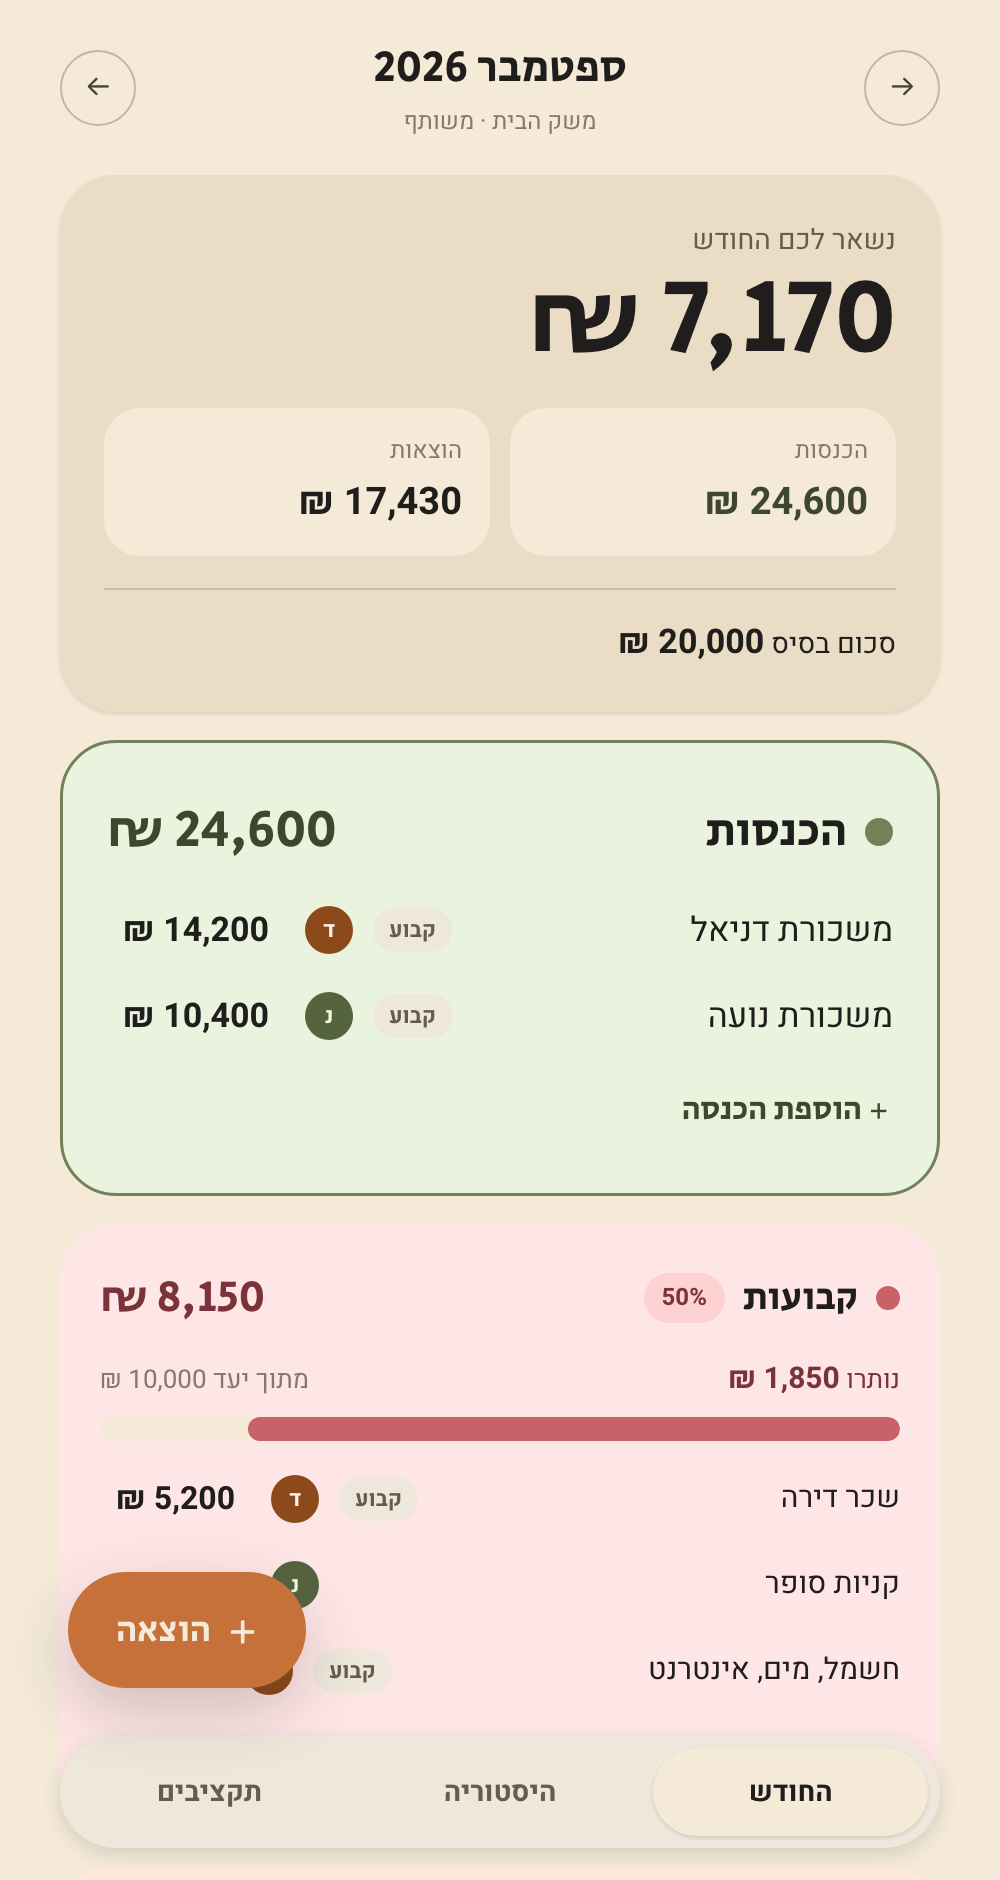
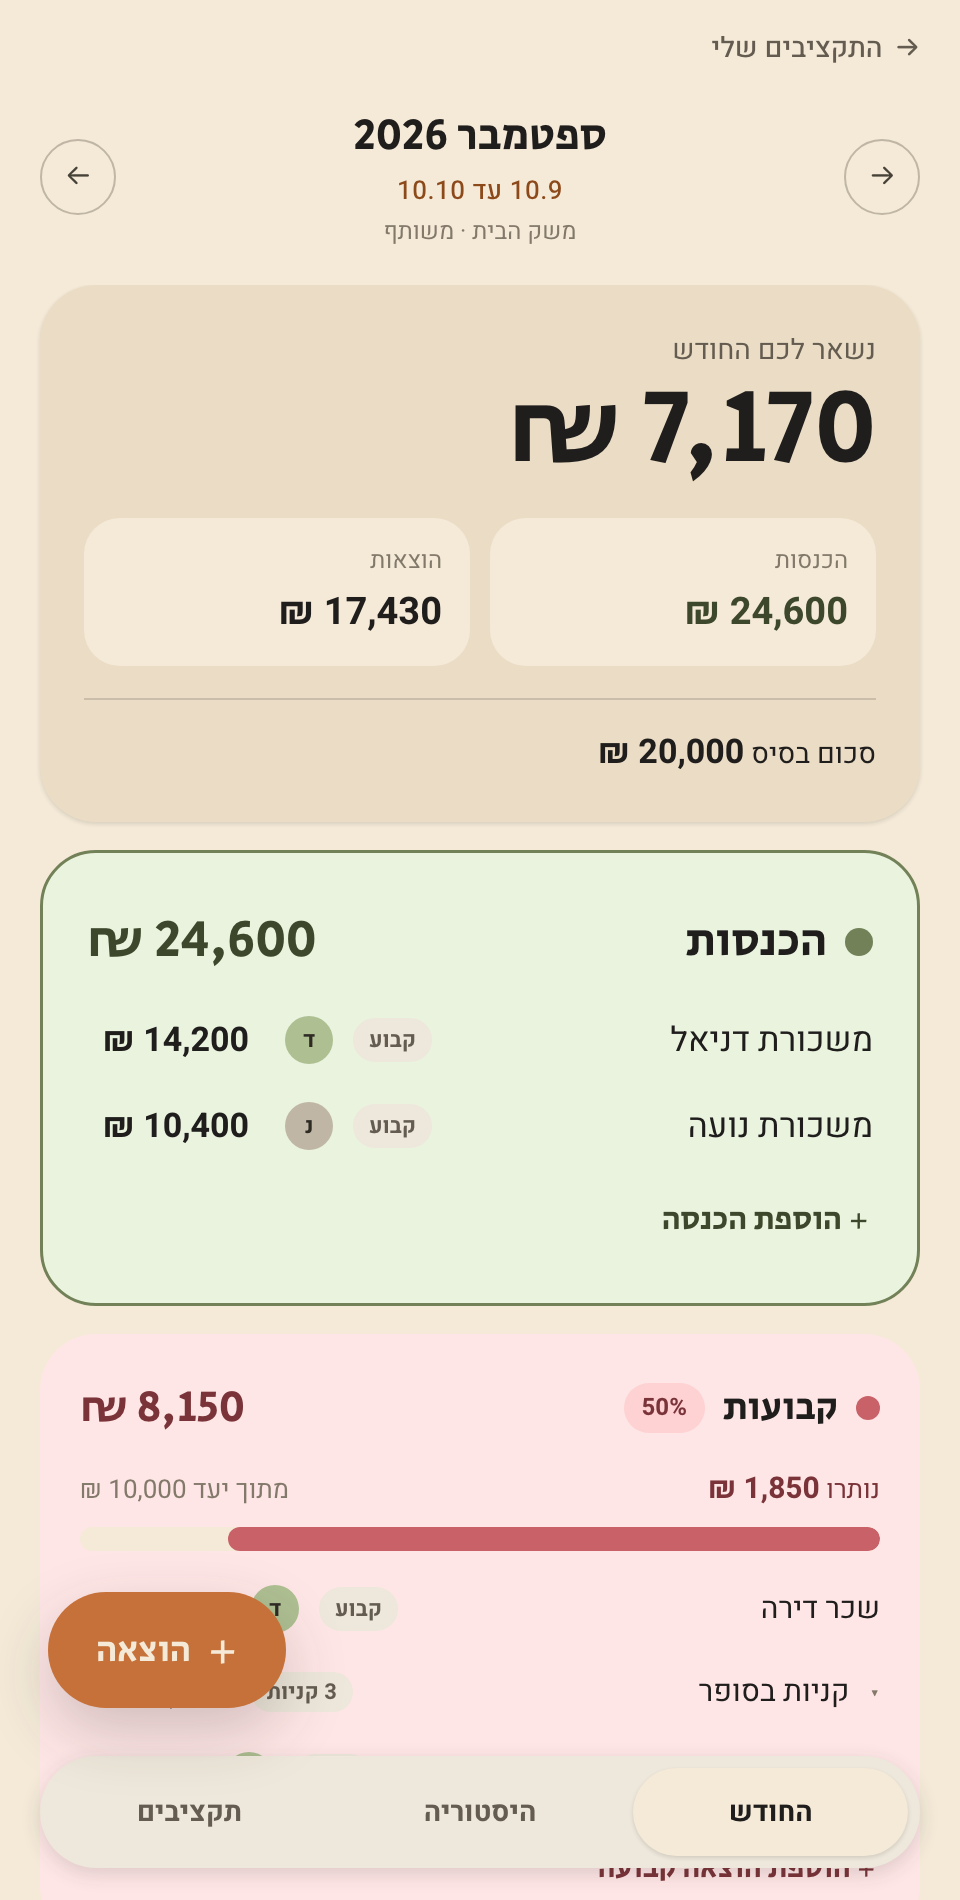
ניקוי, וצילומי מסך ו-README מעודכנים
צילומי המסך הראו אפליקציה אחרת: בלי הקיבוץ, בלי ההסבר, בלי הפרופיל,
ועם השמות הישנים של הקטגוריות. הם צולמו מחדש, ונוספו שני מסכים
שלא היו מתועדים כלל.

הצילום עצמו הפך לסקריפט, npm run shots, במקום פעולה ידנית. הוא
מצלם חלון רחב וחותך את העמודה שבמרכז: צילום ישיר ברוחב טלפון נחתך,
כי בממשק מימין לשמאל נקודת הגלילה ההתחלתית אינה בקצה שרואים.

ה-README עודכן לכל מה שנוסף: בסיס שהמשתמש קובע, היתרה והבלת״ם,
מועד חיוב ומחזור, קיבוץ שורות, עריכה במקום, פרופיל, ושלוש הגרסאות
של התראת סוף החודש. מודל הנתונים עודכן למבנה המקונן ולמזהים
הקריאים, ומספרי הבדיקות עודכנו.

ובנוסף הוסרו שני ייצואים שאיש לא השתמש בהם, ALL_CATEGORIES
ו-signedShekels, יחד עם המעצב שהיה קיים רק בשבילו.

diff --git a/src/dev/shots.jsx b/src/dev/shots.jsx
@@ -2,6 +2,8 @@ import { StrictMode } from 'react'
 import { createRoot } from 'react-dom/client'
 import Avatar from '../components/Avatar'
 import Welcome from '../components/Welcome'
+import ProfileSheet from '../components/ProfileSheet'
+import { AuthContext } from '../context/AuthContext'
 import BackToBudgets from '../components/BackToBudgets'
 import BottomNav from '../components/BottomNav'
 import CategoryCard from '../components/CategoryCard'
@@ -309,6 +311,14 @@ const SCREENS = {
   types: <Types />, trip: <Trip />, goal: <Goal />, sheet: <SheetShot />, login: <LoginShot />,
   // ההסבר מוצג מעל מסך החודש, כי זה ההקשר שבו הוא מופיע באמת
   intro: <><Month /><Welcome onClose={noop} /></>,
+  profile: (
+    <AuthContext.Provider
+      value={{ user: { uid: 'u1', displayName: 'דניאל סלע', email: 'daniel@mail.com' } }}
+    >
+      <main className="app"><div className="app-scroll" /></main>
+      <ProfileSheet profile={{ displayName: 'דניאל סלע', tone: 'a1' }} onClose={noop} />
+    </AuthContext.Provider>
+  ),
 }
 const which = new URLSearchParams(location.search).get('s') || 'month'
 createRoot(document.getElementById('root')).render(<StrictMode>{SCREENS[which]}</StrictMode>)

diff --git a/src/lib/format.js b/src/lib/format.js
@@ -4,15 +4,7 @@ const currency = new Intl.NumberFormat('he-IL', {
   maximumFractionDigits: 0,
 })
 
-const signedCurrency = new Intl.NumberFormat('he-IL', {
-  style: 'currency',
-  currency: 'ILS',
-  maximumFractionDigits: 0,
-  signDisplay: 'exceptZero',
-})
-
 export const shekels = (value) => currency.format(Math.round(value || 0))
-export const signedShekels = (value) => signedCurrency.format(Math.round(value || 0))
 
 const MONTH_NAMES = [
   'ינואר', 'פברואר', 'מרץ', 'אפריל', 'מאי', 'יוני',

diff --git a/src/lib/model.js b/src/lib/model.js
@@ -223,10 +223,6 @@ export const GOAL_CATEGORIES = {
 
 export const GOAL_ORDER = Object.keys(GOAL_CATEGORIES)
 
-/** כל קטגוריה חוקית באפליקציה, לצורך ולידציה. */
-export const ALL_CATEGORIES = [
-  ...Object.keys(CATEGORIES), ...TRIP_ORDER, ...GOAL_ORDER,
-]
 
 /** סיכום טיול: מסגרת אחת, בלי בסיס ובלי יעדים לקטגוריה. */
 export function summarizeTrip(entries, frame = 0) {

diff --git a/README.md b/README.md
@@ -11,7 +11,7 @@ An installable PWA. No developer account, no app store, no native build.
 ![React](https://img.shields.io/badge/React-19-2a78d6?style=flat-square&logo=react&logoColor=white)
 ![Vite](https://img.shields.io/badge/Vite-8-7a8a5e?style=flat-square&logo=vite&logoColor=white)
 ![Firebase](https://img.shields.io/badge/Firebase-Firestore%20%2B%20Auth-eb6834?style=flat-square&logo=firebase&logoColor=white)
-![Tests](https://img.shields.io/badge/tests-135%20passing-1baf7a?style=flat-square)
+![Tests](https://img.shields.io/badge/tests-177%20%2B%20101%20rules-1baf7a?style=flat-square)
 
 The interface is in Hebrew and right to left throughout.
 
@@ -42,6 +42,16 @@ The interface is in Hebrew and right to left throughout.
 <td align="center"><b>A trip</b><br/>One frame, its own categories, no months</td>
 <td align="center"><b>A saving goal</b><br/>A target to fill, deposits and withdrawals</td>
 </tr>
+<tr>
+<td><img src="docs/screens/intro.png" alt="First run" /></td>
+<td><img src="docs/screens/reserve.png" alt="The remainder" /></td>
+<td><img src="docs/screens/profile.png" alt="Profile" /></td>
+</tr>
+<tr>
+<td align="center"><b>First run</b><br/>One example carried through four steps</td>
+<td align="center"><b>The remainder</b><br/>What is left, what was unplanned, what to deposit</td>
+<td align="center"><b>Profile</b><br/>One name and one colour, everywhere</td>
+</tr>
 </table>
 
 ---
@@ -54,12 +64,17 @@ The interface is in Hebrew and right to left throughout.
 | **Invite by code** | Eight characters, single use, valid for a week. No editing security rules to add someone. |
 | **Several budgets** | A shared household one and a personal one, with different members in each. |
 | **Recurring charges** | Tick a box when adding, and the row is created automatically every month. |
-| **A real reserve** | The unplanned margin is a category you can spend from, not just a number to look at. |
-| **Trips** | A separate budget shape for a trip, which can charge the household reserve. |
-| **Saving goals** | A target to accumulate towards, whose deposits count against the household fund. |
+| **A base amount you choose** | Set what you plan to divide each month, so a good month does not quietly license more spending. |
+| **A real remainder** | What comes in above the base is a category you can spend from, with a prompt to deposit what is left. |
+| **Your own billing date** | The 2nd, 10th or 15th. The app opens on the cycle that is running and closes a month when it actually closes. |
+| **Grouped rows** | Many small shops under one collapsed line, so one grocery run a week does not bury the card. |
+| **Edit in place** | Name, category and amount, without deleting and re-entering. |
+| **Trips** | A separate budget shape for a trip, which can charge the household remainder. |
+| **Saving goals** | A target to accumulate towards, whose deposits show up in the household's deposits. |
 | **Works offline** | Opens and shows data without a connection. Writes sync when it returns. |
 | **Who entered what** | A coloured avatar on every row. |
-| **End of month nudge** | A notification if money is left over, linking straight to a fund deposit. |
+| **End of month nudge** | On your billing date: what is left to deposit, or where you overspent. |
+| **One profile** | A name and a colour that belong to the person, identical in every budget. |
 
 ---
 
@@ -86,7 +101,7 @@ direction that amount moves:
 | Categories | Four, fixed in code | Lodging, transport, attractions, dining, shopping, other | Deposit and withdrawal |
 | Targets | 50/30/20 of the base | The frame only | The target only |
 | Recurring | Yes | Not meaningful | Not meaningful |
-| Rolls up into | - | The unplanned reserve | The fund |
+| Rolls up into | - | The remainder | Deposits |
 
 Either can be linked to a household budget. The trip or goal keeps every line of
 detail; the household gets **one summary row per month**, locked for editing and
@@ -94,8 +109,8 @@ pointing back at its source, so the same money is never counted twice or edited 
 two places.
 
 Where that row lands follows the meaning: a trip is a one off expense that was
-planned for, which is what the unplanned reserve is for, and a goal is exactly
-what the 20% fund target exists to hold.
+planned for, which is what the remainder is for, and a goal is exactly what the
+20% deposits target exists to hold.
 
 The row id is derived from the source budget and the month, so two devices syncing
 at once write to the same document instead of duplicating it. A month that empties
@@ -124,10 +139,23 @@ The base is the nearest multiple of 5,000 strictly **below** the income:
 The third row is the one that is easy to get wrong: an income that is an exact
 multiple of 5,000 drops a step, which is what the `- 1` is for.
 
-Targets come out of the base: **50%** fixed, **30%** leisure, **20%** fund. The
-base is not editable anywhere in the interface; it is always derived.
+Targets come out of the base: **50%** fixed, **30%** variable, **20%** deposits.
 
-Overspending in fixed or leisure is marked in red. **Overspending the fund is
+### Or set the base yourself
+
+Deriving the base from income has a flaw: a month that earned 31,000 raises every
+target, so a good month silently permits more spending. That is backwards for a
+budget, where the plan is supposed to lead.
+
+So the base can be a number you set. Set 20,000 and the targets stay 10,000 /
+6,000 / 4,000 whatever comes in, and everything above the base shows up as the
+**remainder**, with a prompt to deposit it rather than spend it. Leave it empty
+and the derivation above is used, exactly as before.
+
+A set base is still capped by the actual income: you cannot plan to divide money
+that never arrived.
+
+Overspending fixed or variable is marked in red. **Overspending deposits is
 not**, because paying in more than the target is the point, and it is shown as
 "beyond target" instead.
 
@@ -140,23 +168,30 @@ income exists, and the screen leads with a prompt to enter one.
 ## Data model
 
 ```
-budgets/{budgetId}               name, ownerUid, type, frame, linkedBudgetId
+budgets/household_home_bc43zy    name, ownerUid, ownerEmail, type, billingDay, baseAmount
   members/{uid}                  membership itself; each person creates only their own
-  recurring/{recurringId}        a template a monthly row is derived from
+  recurring/fixed-rent-k3n9x2    a template a monthly row is derived from
+  entries/2026-09_fixed_rent_a7f3   month, date, category, budgetGroup, amounts, addedBy
+users/{uid}                      profile: display name and avatar colour
 users/{uid}/memberships/{id}     private index: which budgets am I in
 users/{uid}/devices/{token}      notification registrations, private to that user
-invites/{code}                   budgetId, active, expiresAt
-entries/{entryId}                budgetId, month, date, category, budgetGroup, amounts
+invites/K7M2QX4B                 budgetId, active, expiresAt
 ```
 
-Two decisions worth knowing:
+Three decisions worth knowing:
+
+**Entries live under their budget.** The budget is in the path, so it is not a
+field and cannot contradict the path. Every query was already scoped to a single
+budget, so nothing needed a collection group query or a composite index.
+
+**Document ids are readable.** Type and name for a budget, month and category for
+an entry. A console listing says what each document is without opening it. Ids
+derived from content, like a recurring row or a roll up row, keep their derived
+form because that is what makes repeat writes idempotent.
 
 **`budgetGroup` is derived from `category`** and never chosen by hand. Income is
-`none`, fixed is `fixed`, leisure is `leisure`, fund is `savings`, and the
-unplanned reserve is `none` so that it stays outside the ratio.
-
-**`baseAmount` is not stored.** It is recomputed from the month's actual income
-every time, so there is no way for it to contradict the data.
+`none`, fixed is `fixed`, variable is `leisure`, deposits are `savings`, and the
+remainder is `none` so that it stays outside the ratio.
 
 ---
 
@@ -174,23 +209,28 @@ valid, unused and unexpired.
 npm run test:rules
 ```
 
-runs 63 tests against a real Firestore emulator, including the adversarial cases:
+runs 101 tests against a real Firestore emulator, including the adversarial cases:
 joining without a code, a used code, an expired code, a code belonging to another
 budget, adding somebody else with a valid code, extending an expiry, taking over
-ownership, listing invites, moving a record between budgets, and forging
-`addedBy`.
+ownership, listing invites, moving a record between budgets, forging `addedBy`,
+writing somebody else's profile, listing all users, and planting an email that is
+not the one in your own token.
 
 ---
 
 ## End of month nudge
 
-On the last day of the month, if the budget still has unspent money, every member
-gets a notification with the amount and a link that opens a fund deposit with that
-amount already filled in.
+On your billing date, when the cycle that just ended is final, every member gets
+a notification. It has three versions, because a month ends in three different
+ways: money left to deposit, spending beyond a target, or spending beyond the
+income itself.
+
+The date matters. A summary sent on the 30th would describe a month whose largest
+part, the card charges, had not landed yet.
 
 Sending runs from **GitHub Actions**, not a Cloud Function, so the project stays on
-the free plan. The job runs daily and decides for itself whether today is the last
-day of the month in `Asia/Jerusalem`.
+the free plan. The job runs daily and decides per budget, in `Asia/Jerusalem`,
+whether today is that budget's billing date.
 
 Two one time setup steps:
 
